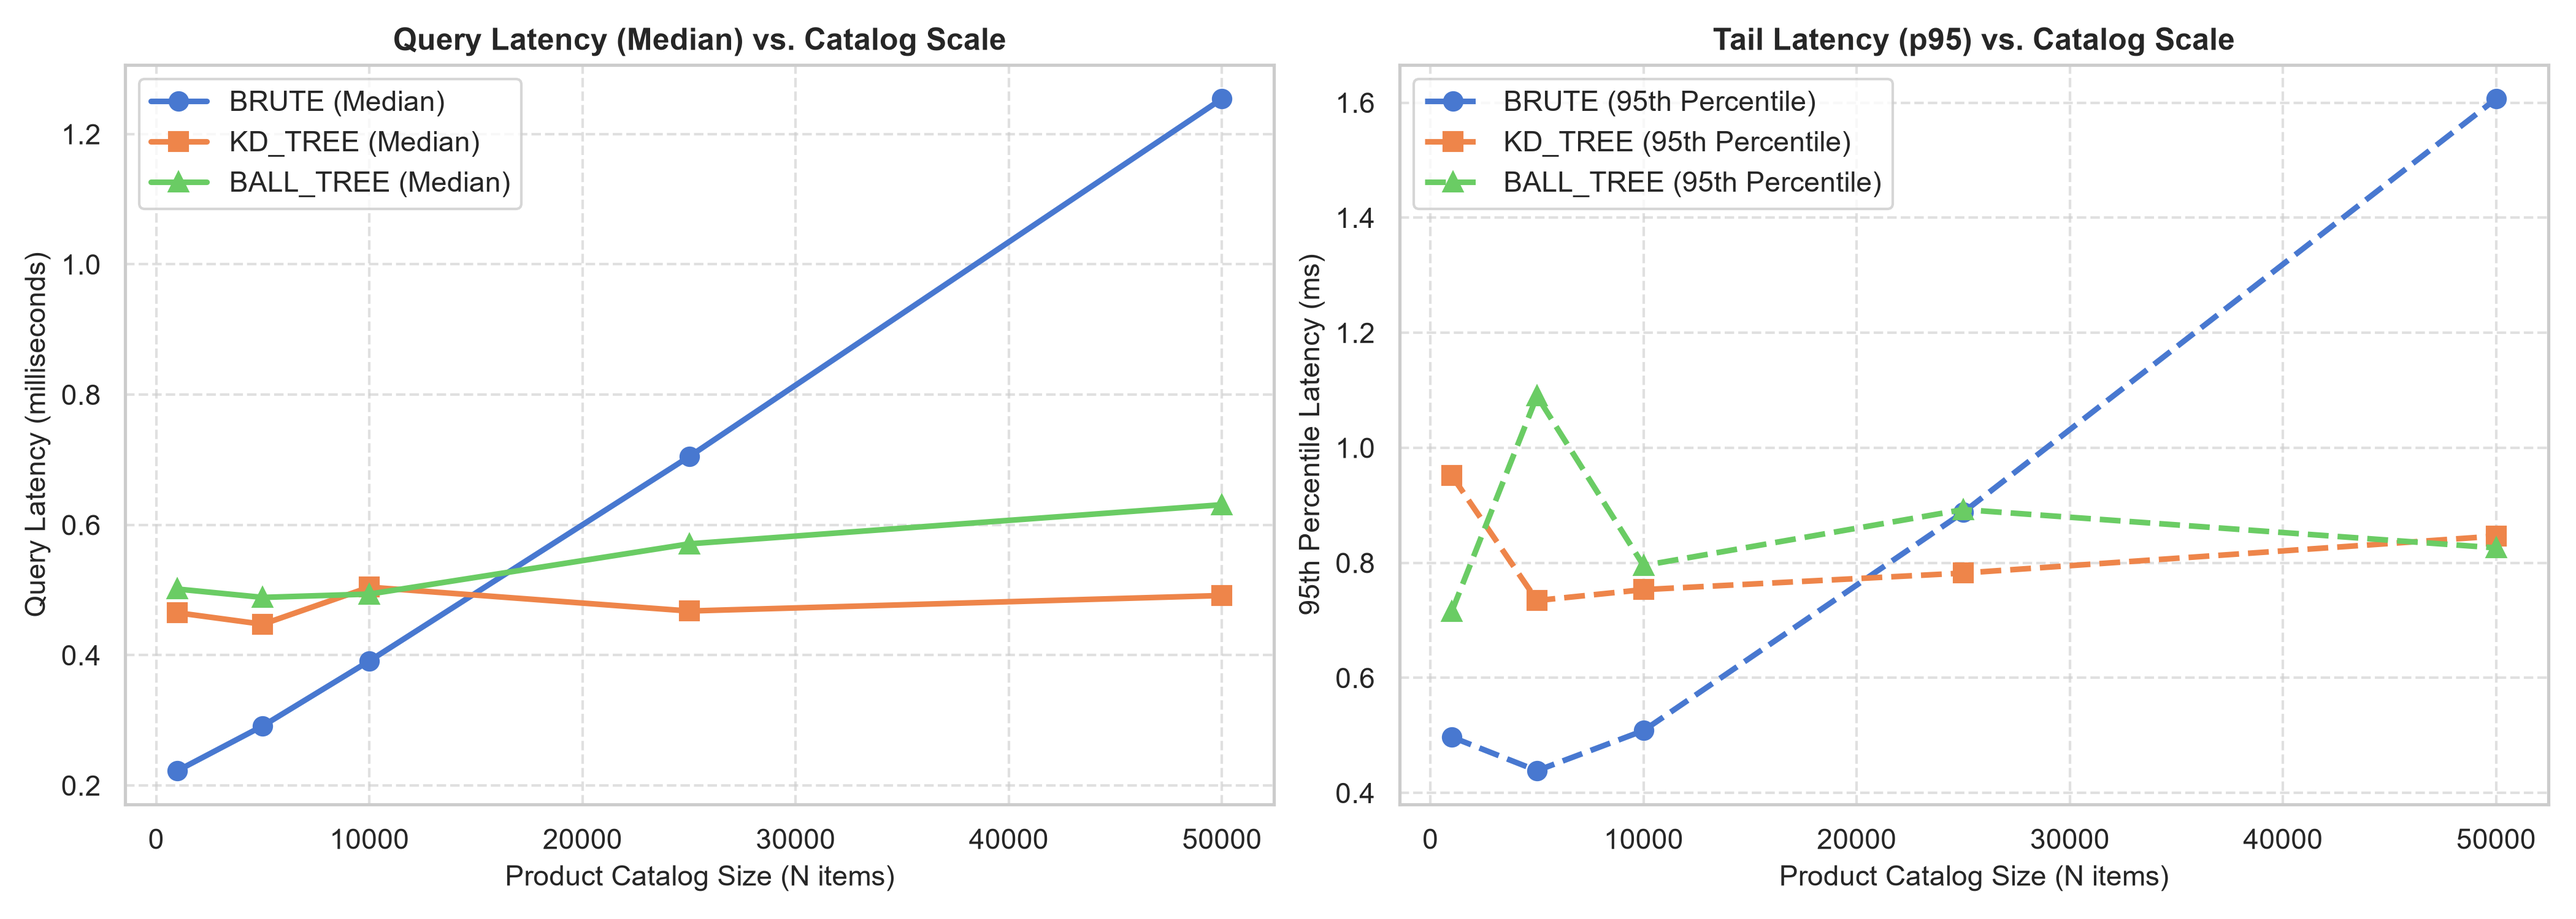
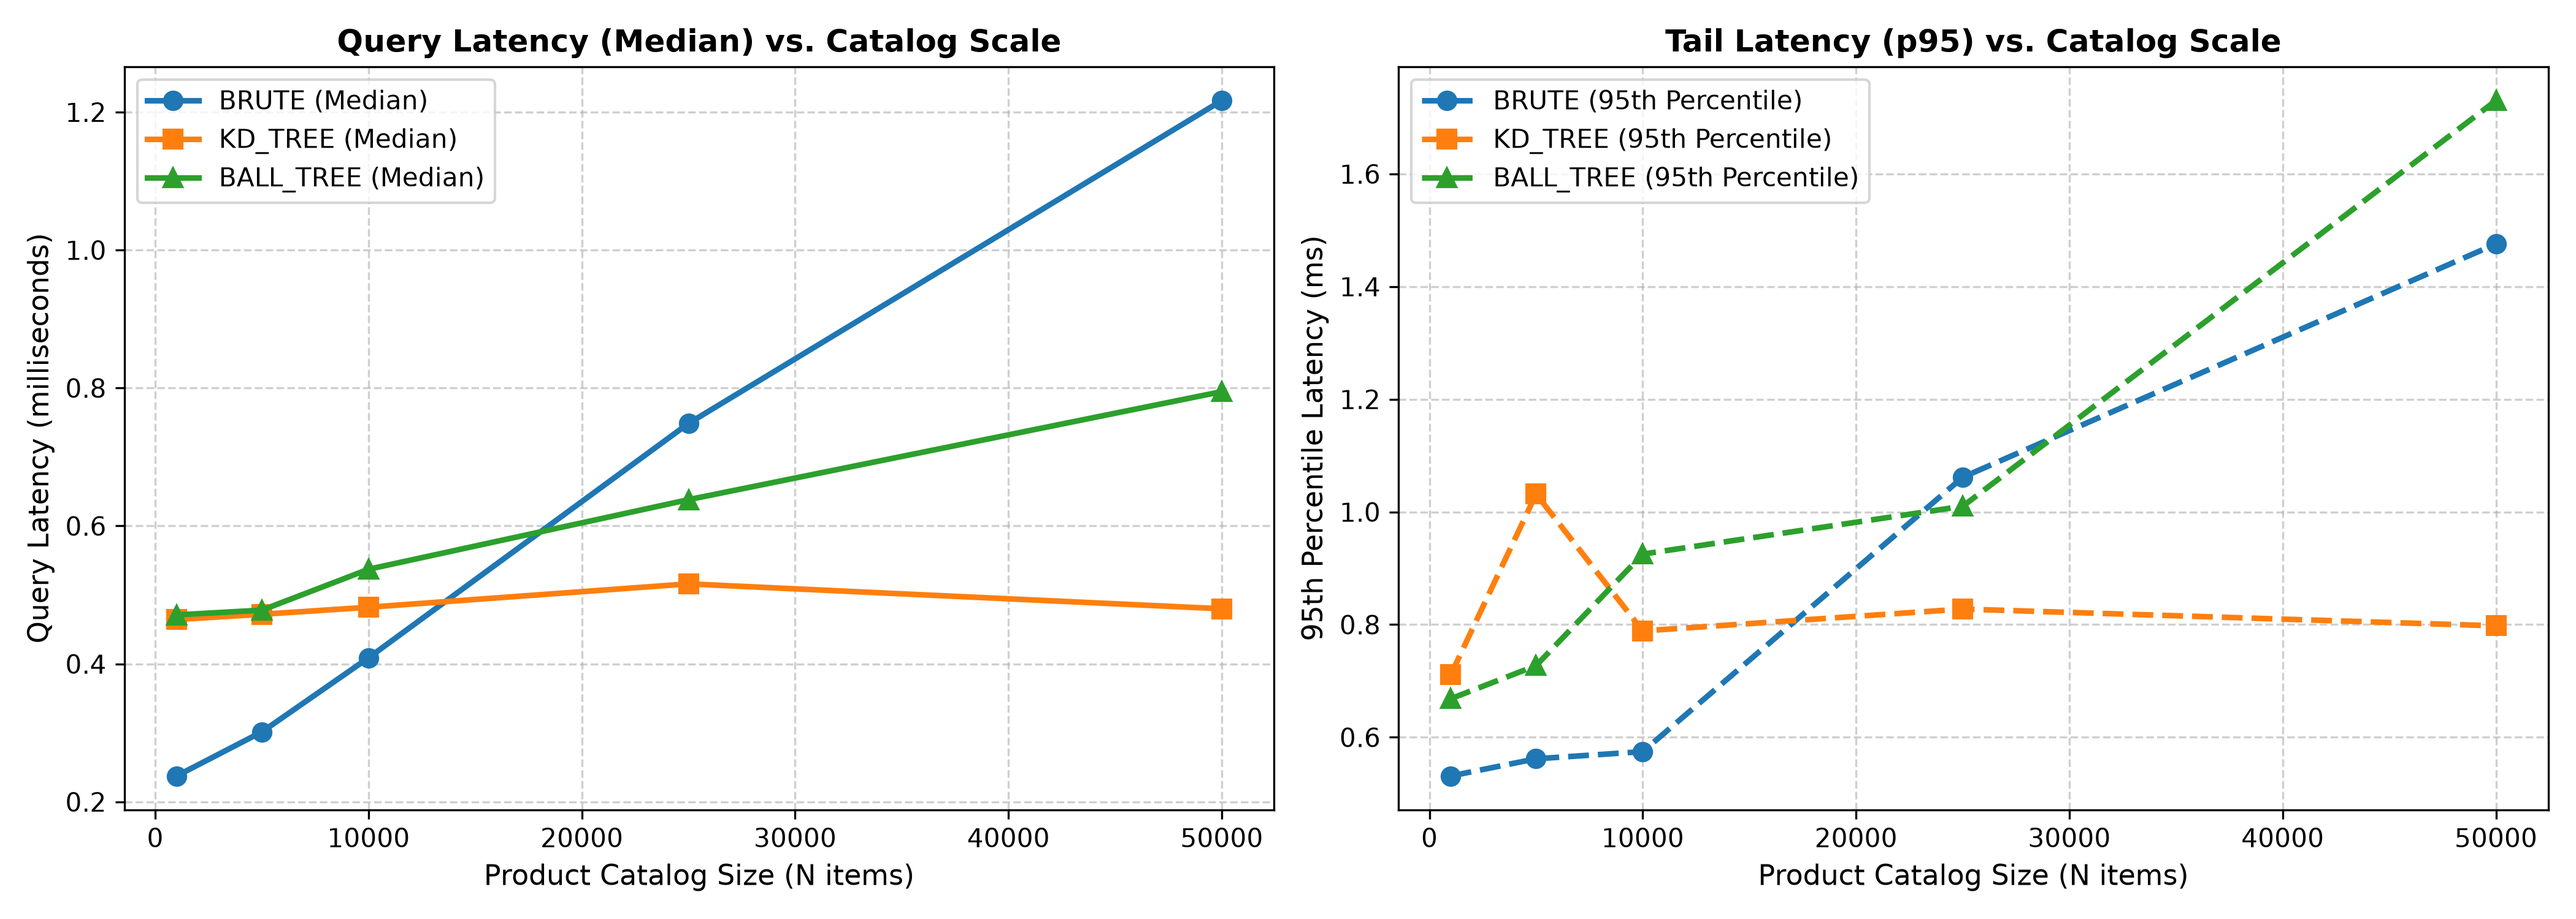
docs(notebook): update walkthrough notebook with clean recommendation views and interactive queries
- Update Step 8 in project_walkthrough.ipynb to include display_clean_recommendations
- Add interactive_query function supporting SKU IDs, numeric IDs, 'random', and 'categories'
- Fix unicode headings across notebook cells for consistent rendering

diff --git a/recommend_and_benchmark.py b/recommend_and_benchmark.py
@@ -227,7 +227,7 @@ def run_interactive_cli(recommender):
             print("\nAvailable Categories & Sample SKUs:")
             for cat, group in recommender.df.groupby("product_category"):
                 sample_skus = ", ".join(group["sku_id"].head(3).tolist())
-                print(f"  - {cat:<24}: e.g. {sample_skus}")
+                print(f"  * {cat:<24}: e.g. {sample_skus}")
             continue
 
         if cmd == "benchmark":
